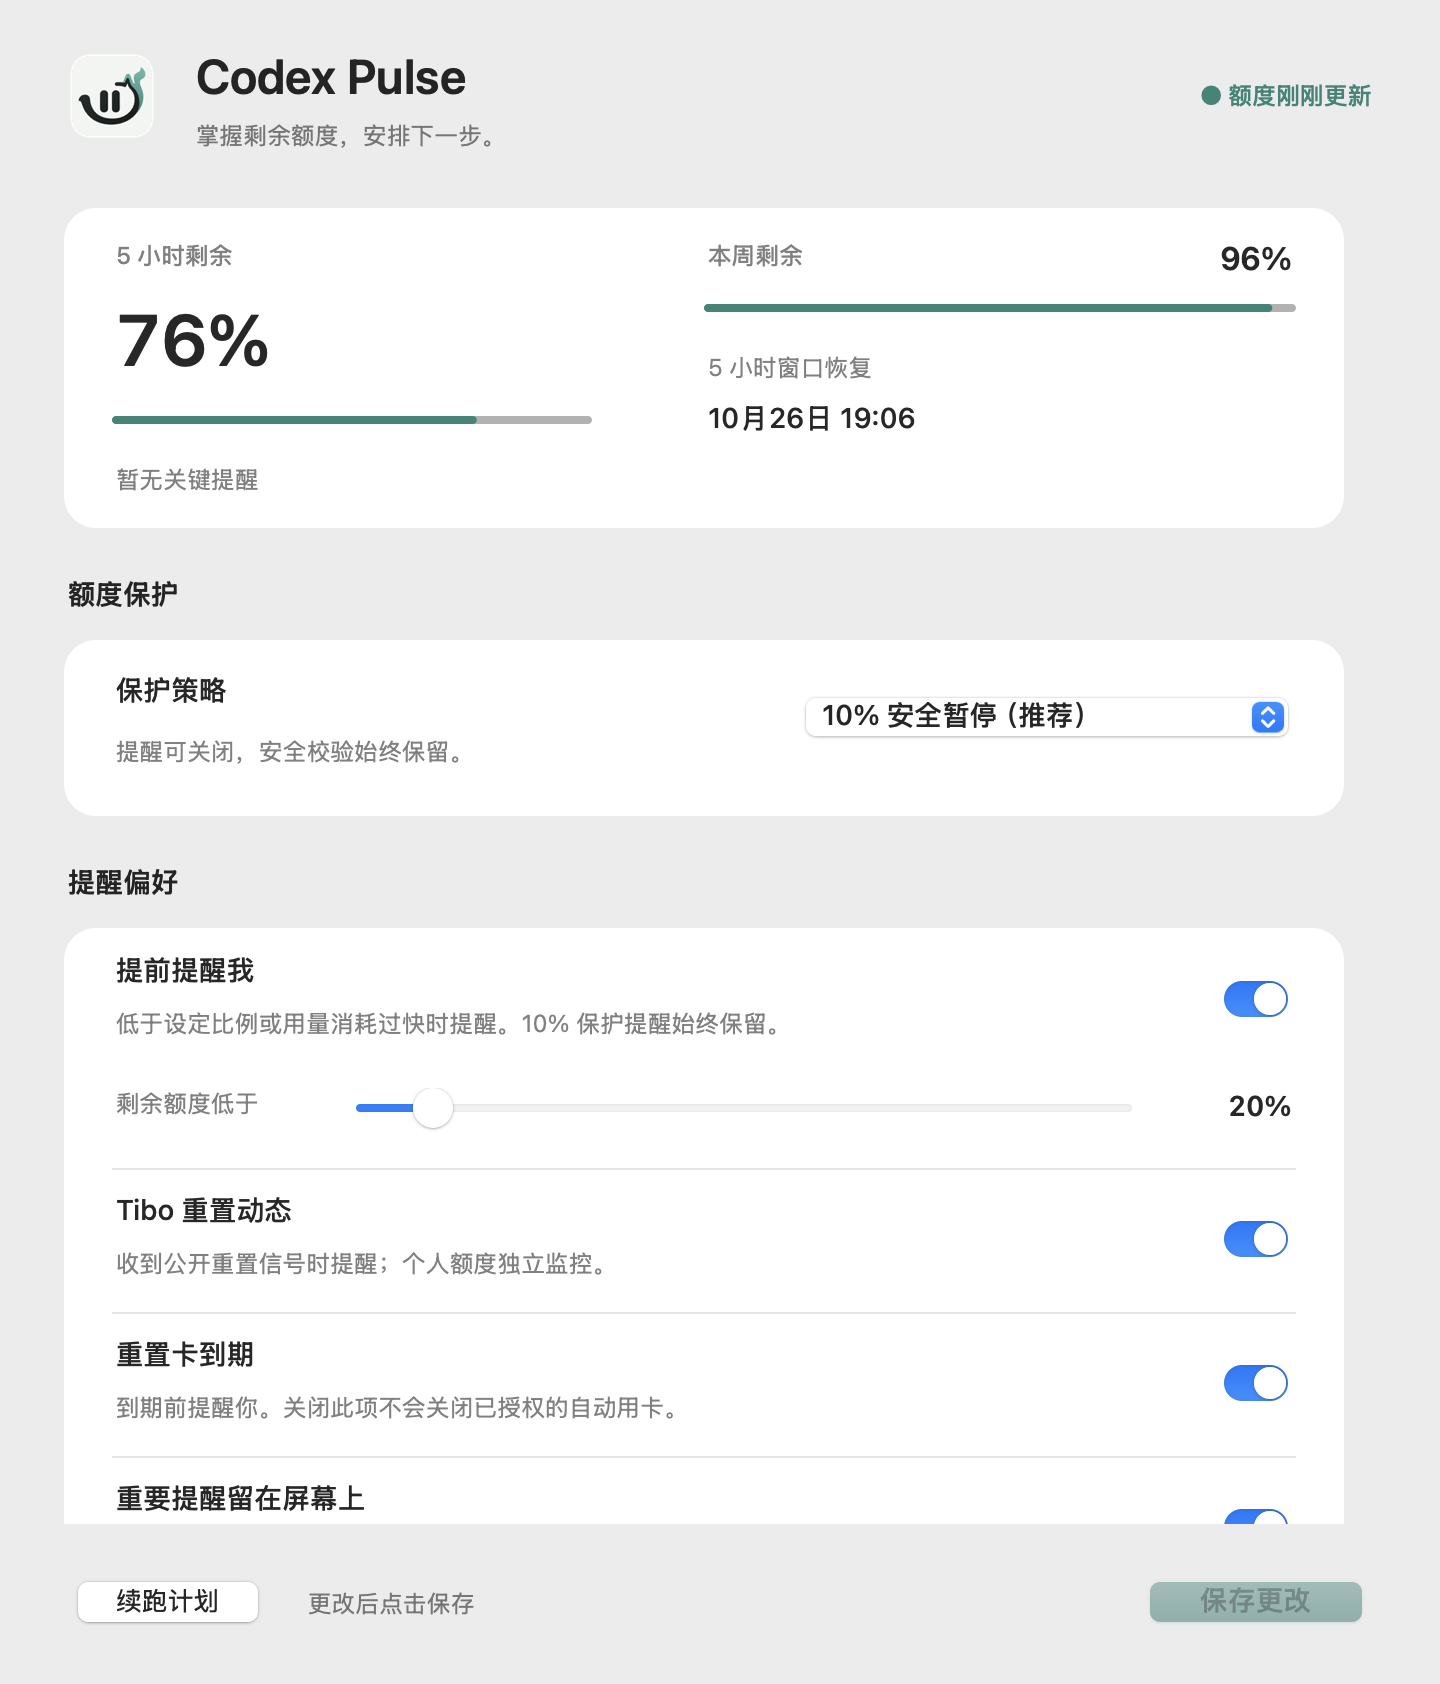
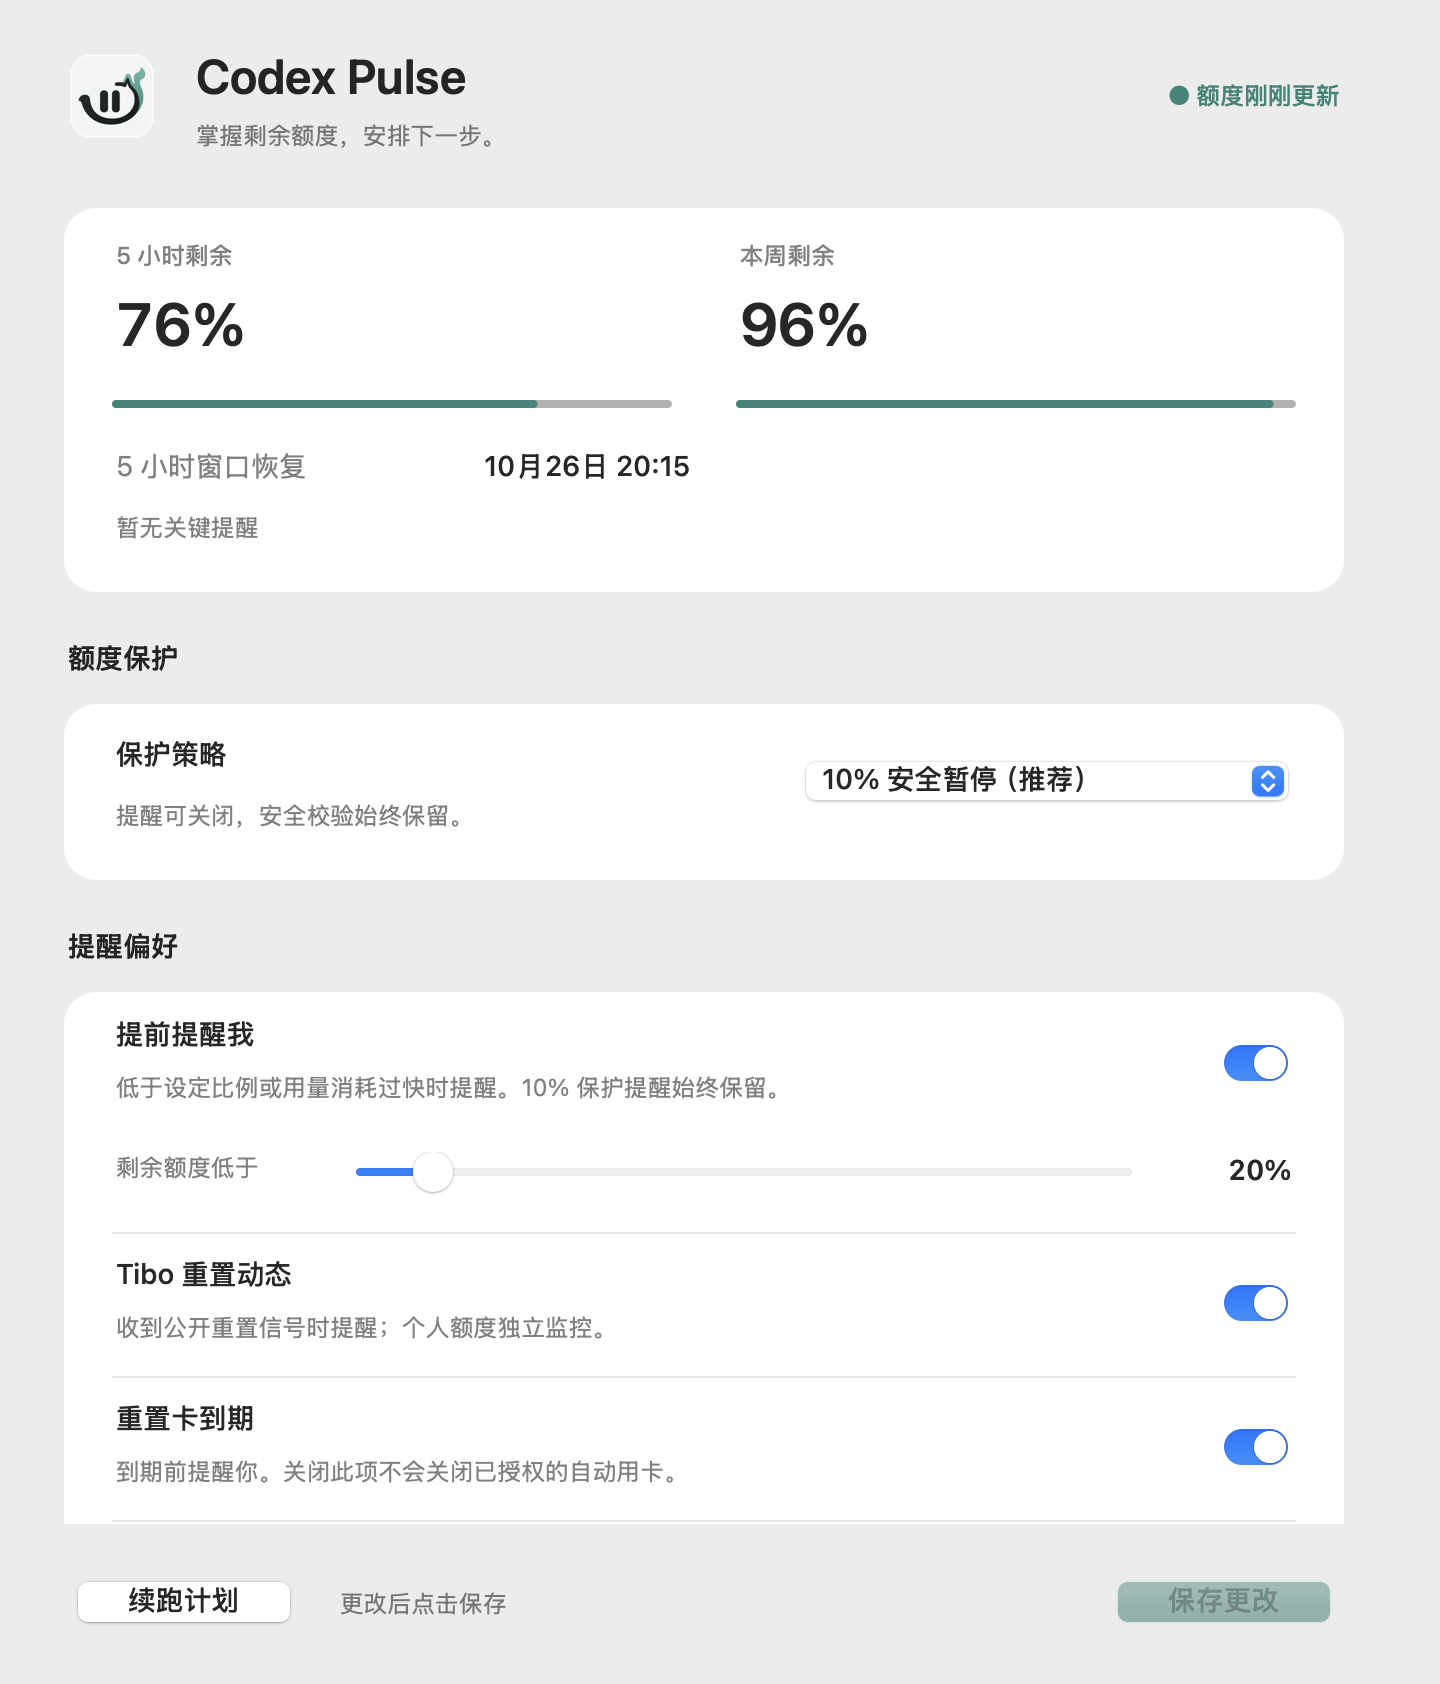
Align quota settings and refresh native screenshot for v0.9.20 beta (#19)

diff --git a/native/PulseSettingsWindow.m b/native/PulseSettingsWindow.m
@@ -124,35 +124,36 @@
     [root addSubview:icon];
     [self label:@"Codex Pulse" frame:NSMakeRect(96, 24, 320, 32) size:24 weight:NSFontWeightSemibold parent:root];
     [self label:@"掌握剩余额度，安排下一步。" frame:NSMakeRect(96, 60, 320, 24) size:12 weight:NSFontWeightRegular parent:root].textColor = NSColor.secondaryLabelColor;
-    self.health = [self label:@"读取本机状态…" frame:NSMakeRect(488, 40, 200, 24) size:12 weight:NSFontWeightMedium parent:root];
+    self.health = [self label:@"读取本机状态…" frame:NSMakeRect(472, 40, 200, 24) size:12 weight:NSFontWeightMedium parent:root];
     self.health.alignment = NSTextAlignmentRight;
 
     self.scroll = [[NSScrollView alloc] initWithFrame:NSMakeRect(32, 104, 656, height - 184)];
     self.scroll.hasVerticalScroller = YES; self.scroll.autohidesScrollers = YES;
     self.scroll.drawsBackground = NO;
-    PulseFlippedView *body = [[PulseFlippedView alloc] initWithFrame:NSMakeRect(0, 0, 640, 1008)];
+    PulseFlippedView *body = [[PulseFlippedView alloc] initWithFrame:NSMakeRect(0, 0, 640, 1040)];
     self.scroll.documentView = body;
     [root addSubview:self.scroll];
-    NSView *quota = [self cardAt:0 height:160 parent:body];
-    [self label:@"5 小时剩余" frame:NSMakeRect(24, 16, 240, 24) size:12 weight:NSFontWeightMedium parent:quota].textColor = NSColor.secondaryLabelColor;
-    self.quotaText = [self label:@"—" frame:NSMakeRect(24, 44, 240, 48) size:36 weight:NSFontWeightSemibold parent:quota];
-    self.quotaText.font = [NSFont monospacedDigitSystemFontOfSize:36 weight:NSFontWeightSemibold];
-    self.quotaBar = [[PulseQuotaBar alloc] initWithFrame:NSMakeRect(24, 104, 240, 4)];
+    NSView *quota = [self cardAt:0 height:192 parent:body];
+    // Equal columns share one metric type size and the same vertical anchors.
+    const CGFloat metricWidth = 280, metricY = 40, barY = 96, metricSize = 30;
+    [self label:@"5 小时剩余" frame:NSMakeRect(24, 16, metricWidth, 24) size:12 weight:NSFontWeightMedium parent:quota].textColor = NSColor.secondaryLabelColor;
+    self.quotaText = [self label:@"—" frame:NSMakeRect(24, metricY, metricWidth, 40) size:metricSize weight:NSFontWeightSemibold parent:quota];
+    self.quotaText.font = [NSFont monospacedDigitSystemFontOfSize:metricSize weight:NSFontWeightSemibold];
+    self.quotaBar = [[PulseQuotaBar alloc] initWithFrame:NSMakeRect(24, barY, metricWidth, 4)];
     [quota addSubview:self.quotaBar];
-    [self label:@"本周剩余" frame:NSMakeRect(320, 16, 120, 24) size:12 weight:NSFontWeightMedium parent:quota].textColor = NSColor.secondaryLabelColor;
-    self.weeklyText = [self label:@"—" frame:NSMakeRect(488, 16, 128, 24) size:16 weight:NSFontWeightSemibold parent:quota];
-    self.weeklyText.font = [NSFont monospacedDigitSystemFontOfSize:16 weight:NSFontWeightSemibold];
-    self.weeklyText.alignment = NSTextAlignmentRight;
-    self.weeklyBar = [[PulseQuotaBar alloc] initWithFrame:NSMakeRect(320, 48, 296, 4)];
+    [self label:@"本周剩余" frame:NSMakeRect(336, 16, metricWidth, 24) size:12 weight:NSFontWeightMedium parent:quota].textColor = NSColor.secondaryLabelColor;
+    self.weeklyText = [self label:@"—" frame:NSMakeRect(336, metricY, metricWidth, 40) size:metricSize weight:NSFontWeightSemibold parent:quota];
+    self.weeklyText.font = self.quotaText.font;
+    self.weeklyBar = [[PulseQuotaBar alloc] initWithFrame:NSMakeRect(336, barY, metricWidth, 4)];
     [quota addSubview:self.weeklyBar];
-    [self label:@"5 小时窗口恢复" frame:NSMakeRect(320, 72, 296, 24) size:12 weight:NSFontWeightRegular parent:quota].textColor = NSColor.secondaryLabelColor;
-    self.resetText = [self label:@"待确认" frame:NSMakeRect(320, 96, 296, 24) size:14 weight:NSFontWeightMedium parent:quota];
-    self.recentText = [self label:@"暂无关键提醒" frame:NSMakeRect(24, 128, 592, 24) size:12 weight:NSFontWeightRegular parent:quota];
+    [self label:@"5 小时窗口恢复" frame:NSMakeRect(24, 120, 168, 24) size:14 weight:NSFontWeightRegular parent:quota].textColor = NSColor.secondaryLabelColor;
+    self.resetText = [self label:@"待确认" frame:NSMakeRect(208, 120, 408, 24) size:14 weight:NSFontWeightMedium parent:quota];
+    self.recentText = [self label:@"暂无关键提醒" frame:NSMakeRect(24, 152, 592, 24) size:12 weight:NSFontWeightRegular parent:quota];
     self.recentText.maximumNumberOfLines = 1;
     self.recentText.lineBreakMode = NSLineBreakByTruncatingTail;
 
-    [self section:@"额度保护" at:184 parent:body];
-    NSView *protection = [self cardAt:216 height:88 parent:body];
+    [self section:@"额度保护" at:216 parent:body];
+    NSView *protection = [self cardAt:248 height:88 parent:body];
     [self label:@"保护策略" frame:NSMakeRect(24, 16, 280, 24) size:14 weight:NSFontWeightMedium parent:protection];
     [self label:@"提醒可关闭，安全校验始终保留。" frame:NSMakeRect(24, 48, 320, 24) size:12 weight:NSFontWeightRegular parent:protection].textColor = NSColor.secondaryLabelColor;
     self.policy = [[NSPopUpButton alloc] initWithFrame:NSMakeRect(368, 24, 248, 32) pullsDown:NO];
@@ -162,8 +163,8 @@
     self.policy.accessibilityLabel = @"保护策略";
     [protection addSubview:self.policy];
 
-    [self section:@"提醒偏好" at:328 parent:body];
-    NSView *notices = [self cardAt:360 height:416 parent:body];
+    [self section:@"提醒偏好" at:360 parent:body];
+    NSView *notices = [self cardAt:392 height:416 parent:body];
     [self row:@"提前提醒我" detail:@"低于设定比例或用量消耗过快时提醒。10% 保护提醒始终保留。" key:@"quotaAlertsEnabled" at:0 parent:notices];
     [self label:@"剩余额度低于" frame:NSMakeRect(24, 80, 112, 24) size:12 weight:NSFontWeightRegular parent:notices].textColor = NSColor.secondaryLabelColor;
     self.threshold = [[NSSlider alloc] initWithFrame:NSMakeRect(144, 80, 392, 24)];
@@ -183,23 +184,25 @@
     [self separatorAt:336 parent:notices];
     [self row:@"通知声音" detail:@"关闭后仍会显示通知，不影响额度保护。" key:@"soundEnabled" at:336 parent:notices];
 
-    [self section:@"自动用卡 · 单独授权" at:800 parent:body];
-    NSView *credits = [self cardAt:832 height:104 parent:body];
+    [self section:@"自动用卡 · 单独授权" at:832 parent:body];
+    NSView *credits = [self cardAt:864 height:104 parent:body];
     self.creditSwitch = [self row:@"到期前自动用一张" detail:@"不足 10 分钟且有额度可重置时，使用最早到期的一张。" key:nil at:0 parent:credits];
     self.creditSwitch.action = @selector(creditChanged:);
     [self label:@"仅限已授权账户。即时生效；睡眠或离线可能错过到期。" frame:NSMakeRect(24, 72, 592, 24) size:12 weight:NSFontWeightRegular parent:credits].textColor = NSColor.secondaryLabelColor;
 
     NSButton *plan = [NSButton buttonWithTitle:@"续跑计划" target:self action:@selector(openPreview:)];
-    plan.frame = NSMakeRect(32, height - 56, 104, 32); [root addSubview:plan];
+    plan.frame = NSMakeRect(32, height - 56, 120, 32);
+    plan.font = [NSFont systemFontOfSize:14 weight:NSFontWeightMedium];
+    [root addSubview:plan];
     NSButton *system = [NSButton buttonWithTitle:@"系统通知设置" target:self action:@selector(openSystem:)];
-    system.frame = NSMakeRect(0, 952, 128, 32); [body addSubview:system];
+    system.frame = NSMakeRect(0, 984, 128, 32); [body addSubview:system];
     NSButton *authorization=[NSButton buttonWithTitle:@"保护授权" target:self action:@selector(openProtection:)];
-    authorization.frame=NSMakeRect(144,952,104,32); [body addSubview:authorization];
-    [self label:@"偏好仅存本机，不更改系统权限。" frame:NSMakeRect(304, 960, 336, 24) size:12 weight:NSFontWeightRegular parent:body].textColor = NSColor.secondaryLabelColor;
-    self.feedback = [self label:@"正在读取设置…" frame:NSMakeRect(152, height - 48, 392, 24) size:12 weight:NSFontWeightRegular parent:root];
+    authorization.frame=NSMakeRect(144,984,104,32); [body addSubview:authorization];
+    [self label:@"偏好仅存本机，不更改系统权限。" frame:NSMakeRect(304, 992, 336, 24) size:12 weight:NSFontWeightRegular parent:body].textColor = NSColor.secondaryLabelColor;
+    self.feedback = [self label:@"正在读取设置…" frame:NSMakeRect(168, height - 48, 360, 24) size:12 weight:NSFontWeightRegular parent:root];
     self.feedback.textColor = NSColor.secondaryLabelColor;
     self.saveButton = [NSButton buttonWithTitle:@"保存更改" target:self action:@selector(save:)];
-    self.saveButton.frame = NSMakeRect(568, height - 56, 120, 32);
+    self.saveButton.frame = NSMakeRect(552, height - 56, 120, 32);
     self.saveButton.font = [NSFont systemFontOfSize:14 weight:NSFontWeightSemibold];
     self.saveButton.bezelStyle = NSBezelStyleRounded;
     self.saveButton.bezelColor = self.green;
@@ -400,6 +403,23 @@
     }
     return YES;
 }
+- (BOOL)validateAlignment {
+    NSRect first = self.quotaText.frame, second = self.weeklyText.frame;
+    NSRect firstBar = self.quotaBar.frame, secondBar = self.weeklyBar.frame;
+    NSView *card = self.quotaText.superview;
+    NSRect cardInWindow = [card convertRect:card.bounds toView:self.window.contentView];
+    return NSEqualSizes(first.size, second.size)
+        && [self.quotaText.font isEqual:self.weeklyText.font]
+        && self.quotaText.alignment == self.weeklyText.alignment
+        && NSMinY(first) == NSMinY(second)
+        && NSEqualSizes(firstBar.size, secondBar.size)
+        && NSMinY(firstBar) == NSMinY(secondBar)
+        && NSMinX(firstBar) == NSMinX(first) && NSMinX(secondBar) == NSMinX(second)
+        && NSMaxX(firstBar) == NSMaxX(first) && NSMaxX(secondBar) == NSMaxX(second)
+        && NSMinY(self.resetText.frame) > NSMaxY(firstBar)
+        && NSMaxX(cardInWindow) == NSMaxX(self.saveButton.frame)
+        && NSMaxX(cardInWindow) == NSMaxX(self.health.frame);
+}
 - (void)runIsolatedSelfTest {
     __weak PulseSettingsWindow *weakSelf = self;
     self.afterLoad = ^{
@@ -407,6 +427,18 @@
             PulseSettingsWindow *view = weakSelf;
             BOOL layoutOK = [view validateLayoutIn:view.window.contentView]
                 && [view validateLayoutIn:view.scroll.documentView];
+            BOOL alignmentOK = [view validateAlignment];
+            // Prove the test rejects the original two regressions, not just
+            // clipping: a smaller metric font and a differently sized bar.
+            NSFont *metricFont = view.weeklyText.font;
+            view.weeklyText.font = [NSFont monospacedDigitSystemFontOfSize:16 weight:NSFontWeightSemibold];
+            BOOL rejectedSmallFont = ![view validateAlignment];
+            view.weeklyText.font = metricFont;
+            NSRect barFrame = view.weeklyBar.frame, changedBar = barFrame;
+            changedBar.size.width -= 16; view.weeklyBar.frame = changedBar;
+            BOOL rejectedUnequalBar = ![view validateAlignment];
+            view.weeklyBar.frame = barFrame;
+            alignmentOK = alignmentOK && rejectedSmallFont && rejectedUnequalBar;
             NSDictionary *state = [view readJSON:@"state.json"];
             NSDictionary *summary = state[@"lastSummary"];
             // Both missing values are valid too, and must leave tracks empty.
@@ -429,7 +461,7 @@
             view.afterSave = ^{
                 PulseSettingsWindow *current = weakSelf;
                 NSDictionary *saved = [current readJSON:@"preferences.json"];
-                BOOL ok = layoutOK && quotaOK && freshnessOK && current.window.isVisible && [saved[@"lowQuotaPercent"] integerValue] == 35
+                BOOL ok = layoutOK && alignmentOK && quotaOK && freshnessOK && current.window.isVisible && [saved[@"lowQuotaPercent"] integerValue] == 35
                     && ![saved[@"soundEnabled"] boolValue] && ![saved[@"persistentAlertsEnabled"] boolValue]
                     && [saved[@"autoRedeem"][@"enabled"] boolValue] && !current.saveButton.enabled;
                 [current capture:@"settings-saved.png"];
@@ -441,9 +473,10 @@
                     BOOL disabled = saved && ![finalPreferences[@"autoRedeem"][@"enabled"] boolValue]
                         && finalView.creditSwitch.state == NSControlStateValueOff;
                     [finalView capture:@"settings-credit-off.png"];
-                    printf("{\"ok\":%s,\"regularSavePreservedConsent\":%s,\"explicitDisableWorked\":%s,\"layoutFits\":%s,\"quotaBarsMatchData\":%s,\"freshnessAndSeverityMatch\":%s}\n",
+                    printf("{\"ok\":%s,\"regularSavePreservedConsent\":%s,\"explicitDisableWorked\":%s,\"layoutFits\":%s,\"quotaBarsMatchData\":%s,\"freshnessAndSeverityMatch\":%s,\"alignmentVerified\":%s}\n",
                         ok && disabled ? "true" : "false", ok ? "true" : "false", disabled ? "true" : "false",
-                        layoutOK ? "true" : "false", quotaOK ? "true" : "false", freshnessOK ? "true" : "false");
+                        layoutOK ? "true" : "false", quotaOK ? "true" : "false", freshnessOK ? "true" : "false",
+                        alignmentOK ? "true" : "false");
                     fflush(stdout); [NSApp terminate:nil];
                 };
                 current.creditSwitch.state = NSControlStateValueOff;

diff --git a/docs/releases/v0.9.20.md b/docs/releases/v0.9.20.md
@@ -1,0 +1,26 @@
+# Codex Pulse v0.9.20 · Beta
+
+本次修复设置页对齐问题，更新 GitHub 原生应用截图。没有新增权限，也没有更改额度保护、自动续跑或自动用卡策略。
+
+## 改了什么
+
+- 5 小时与本周额度使用相同字号、等宽进度条和共同基线。
+- 恢复时间单独一行，顶部状态与底部按钮对齐卡片边缘。
+- 新增原生对齐回归检查，主动注入字号和条宽不一致，确认测试能够识别。
+- 首页截图直接截取原生应用，额度为演示数据，不含公司水印或私人账号信息。
+
+## 本轮验证
+
+- 244 项自动化测试及完整本地发布门禁通过。
+- 5 组原生设置测试覆盖浅色、深色、小窗口、低额度、缺失／过期数据；验证对齐、保存偏好和独立用卡授权。
+- 隔离安装／卸载、真实测试 launchd 服务回滚、常驻提醒和离线暂停／恢复链路通过；未触碰真实安装或消耗重置卡。
+- 发布时 Tibo 公共数据源读取正常。此次未重跑消耗普通额度的真实模型续跑测试，不将离线测试描述为真实账号低额度验收。
+
+## 安装与边界
+
+下载 `Codex-Pulse-0.9.20-macOS.zip`，解压后双击 `安装 Codex Pulse.command`。
+兼容的已审查插件保持不变；新授权对新会话生效，方便时重开 Codex，不会自动停止当前任务。
+
+本次是界面修复，沿用 v0.9.19 的 Beta 边界：干净 Mac 的完整首次安装、已打开桌面线程的 Hook 重载和物理睡眠仍需独立验收。测试中的低额度／恢复额度样本不是自然耗尽账号。
+
+自动用卡默认关闭、单独授权；睡眠、离线和公共数据源故障可能导致提醒延迟或遗漏。完整产品通过 macOS 安装包提供，尚未上架官方插件目录。

diff --git a/CHANGELOG.md b/CHANGELOG.md
@@ -1,5 +1,15 @@
 # Changelog
 
+## 0.9.20 — 2026-10-26
+
+- Align five-hour and weekly quota values with shared typography, equal-width
+  bars and common baselines. Put recovery time on its own row and align the
+  header status and footer actions to the card edge.
+- Add native alignment regression checks, including deliberately mismatched
+  fonts and bar widths; retain settings persistence and consent checks.
+- Refresh the GitHub screenshot from the native app using clearly labelled
+  demonstration data. No quota, recovery, permission or automatic-card policy changes.
+
 ## 0.9.19 — 2026-10-26
 
 - Stage and verify the native App before replacing an existing installation.

diff --git a/README.md b/README.md
@@ -8,9 +8,9 @@
 <p align="center">Codex 快没额度时，帮你留住进度；恢复后，安全接着做。</p>
 
 <p align="center">
-  <a href="https://github.com/CJaxonJ/codex-pulse/releases/download/v0.9.19/Codex-Pulse-0.9.19-macOS.zip"><strong>下载 macOS 版 · v0.9.19</strong></a> ·
+  <a href="https://github.com/CJaxonJ/codex-pulse/releases/download/v0.9.20/Codex-Pulse-0.9.20-macOS.zip"><strong>下载 macOS 版 · v0.9.20</strong></a> ·
   <a href="./开始使用.md">安装指南</a> ·
-  <a href="./docs/releases/v0.9.19.md">更新记录</a>
+  <a href="./docs/releases/v0.9.20.md">更新记录</a>
 </p>
 
 ## 能帮你做什么
